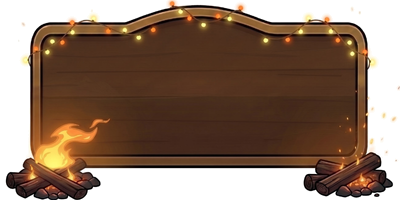
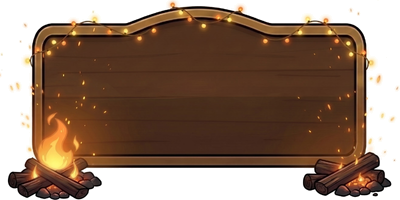
Pase 742: fogata de victoria de Noche Camperal con fundido suave y sin cuadro de fondo blanco

diff --git a/src/constants/cartelesVictoria.js b/src/constants/cartelesVictoria.js
@@ -13,8 +13,8 @@ export const CARTELES_VICTORIA = [
   { id: 'base', nombre: 'Luces de fiesta', cuadros: cuadros('base', 2), proporcion: 2, intervaloMs: 550, colorTitulo: '#FFD98A', colorDetalle: '#F1D9A8' },
   // Pase 715: La Pulpería (3 cuadros: farol izquierdo, ambos, farol derecho). `secuencia` = orden de los cuadros (opcional): 1-2-3-2 va y vuelve.
   { id: 'pulperia', nombre: 'La Pulpería', cuadros: cuadros('pulperia', 3), secuencia: [0, 1, 2, 1], suave: true, escalaTitulo: 0.82, textoDy: 0.08, proporcion: 2, intervaloMs: 650, colorTitulo: '#FFD98A', colorDetalle: '#F1D9A8' },
-  // Pase 741: Noche Camperal (fogata; 6 cuadros en orden). `textoDy` negativo sube el texto (el panel queda un poco arriba del centro del lienzo).
-  { id: 'noche-camperal', nombre: 'Noche Camperal', cuadros: cuadros('noche-camperal', 6), escalaTitulo: 0.88, textoDy: -0.04, proporcion: 2, intervaloMs: 380, colorTitulo: '#FFD98A', colorDetalle: '#F1D9A8' },
+  // Pase 741/742: Noche Camperal (fogata; 5 cuadros). Cuadro base (2) siempre opaco; la secuencia pasa siempre por él (inclinada → base → recta → base ...) para que la llama se funda sin saltar. `textoDy` negativo sube el texto.
+  { id: 'noche-camperal', nombre: 'Noche Camperal', cuadros: cuadros('noche-camperal', 5), secuencia: [0, 1, 3, 1, 4, 1, 2, 1], suave: true, escalaTitulo: 0.88, textoDy: -0.04, proporcion: 2, intervaloMs: 450, colorTitulo: '#FFD98A', colorDetalle: '#F1D9A8' },
 ];
 
 export const cartelVictoriaPorId = (id) => CARTELES_VICTORIA.find((c) => c.id === id) || CARTELES_VICTORIA[0];
